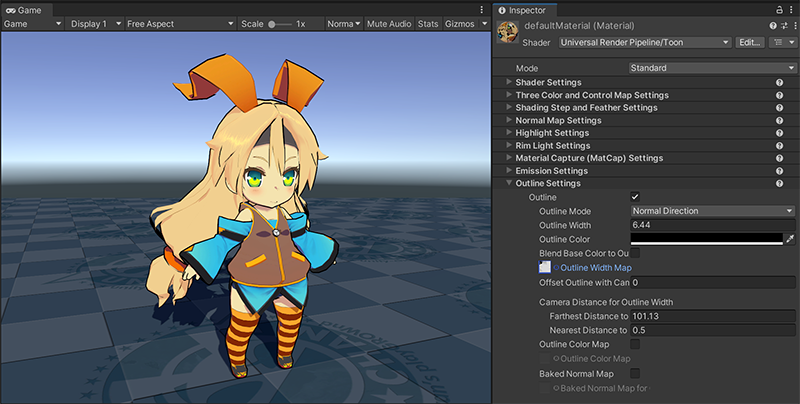
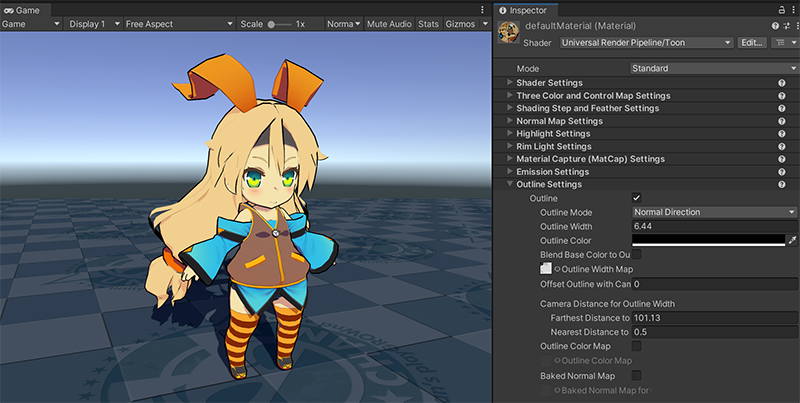
#208 - Updated GettingStarted.md. - Added some images to describe advanced technique. [skip ci]

diff --git a/com.unity.toonshader/Documentation~/GettingStarted.md b/com.unity.toonshader/Documentation~/GettingStarted.md
@@ -9,8 +9,8 @@ What you have to do for simple cel-shading are:
 * [Determine touch of the character](#adjusting-edge-of-three-basic-color-region).
 * [Set Outline.](#set-outline)
 * [Advanced techniques](#advanced-techniques)
+  * [Erase outlines in the eyes](#erasing-outlines-around-the-eyes)
   * [Add luster to hair](#adding-luster-to-hair)
-  * [Erase outlines in the eyes](#erasing-outlines-in-the-eyes)
 * [Options for stunning professional cel-shading](#more-options-for-stunning-professional-cel-shading)
 
 
@@ -56,7 +56,7 @@ Touch of the image is one of the most important factors that determine the style
 
 | Adjusted Base Color Step | 
 | --- | 
-|<img src="images/AdjustingBorder.png">  | 
+|<img src="images/WithoutOutline.png">  | 
 
 | Adjusted Base Shading Feather | 
 | --- | 
@@ -67,30 +67,33 @@ The Outline is another important factor that determines the animation touch. The
 
 | Thin outlines in a light color | 
 | --- | 
-| <img src="images/ThinOutline.png" width="490">  | 
+| <img src="images/ThinOutline2.png" >  | 
 
 | Bold outlines in a dark color | 
 | --- | 
-| <img src="images/BoldOutline.png" width="490">  | 
+| <img src="images/BoldOutline2.png" >  | 
 
 ## Advanced techniques
-Now, you  learned basic cel-sheding. To simplify the learning process, one material is set to the character, though, in real animation/game production scenes, much more detailed settings to various materials are indispensable. Sometimes special maps provide solution for problems.
+Now, you  learned basic cel-sheding. But, professional cel-shading often requires more treatments.
 
-The followings explain some simple techniques using more than two different materials.
-
-### Adding luster to hair
-[Highlight](Highlight.md) on hair makes the images more impressive. [Angel Ring](AngelRing.md) or [Material Capture(MatCap)](MatCap.md) are more specialized for hair luster. This time, apply MatCap on the hair. Create another material  then set [MatCap map](MatCap.md#matcap-map) in it.
-
-| Applied MatCap Map to Hair | 
-| --- | 
-| <img src="images/luster.png">  | 
-
-### Erasing outlines in the eyes
-Sometimes, outlines around characters' eyes spoil images. In such cases, [Outline Width Map](Outline.md#outline-width-map) is definitive answer to erase unnecessary outlines in the eyes.
+### Erasing outlines around the eyes
+Look at the character's face above again, you will notice outlines around characters' eyes spoiling the images. UTS provides  [Outline Width Map](Outline.md#outline-width-map) to solve this. By applying that map, you can control the thickness of outlines around every part of the meshes to your satisfaction.
 
 | Applied Outline Width Map | 
 | --- | 
-| <img src="images/OutlineWidthMap.png">  | 
+| <img src="images/OutlineWidthMap3.png">  | 
+
+
+### Adding luster to hair
+Still, the image may appear flat and lacking in three-dimensionality.
+[Highlight](Highlight.md) on hair makes the images more impressive. 
+[Angel Ring](AngelRing.md) or [Material Capture(MatCap)](MatCap.md) are more specialized for hair luster. This time, apply MatCap on the hair. Create another material, then set [MatCap map](MatCap.md#matcap-map) in it.
+
+| Applied MatCap Map to Hair | 
+| --- | 
+| <img src="images/Luster3.png">  | 
+
+
 
 ## More options for stunning professional cel-shading
 The following factors are also essential in nowadays animation/game production when using cel-shading. Please try these out after mastering this chapter.
